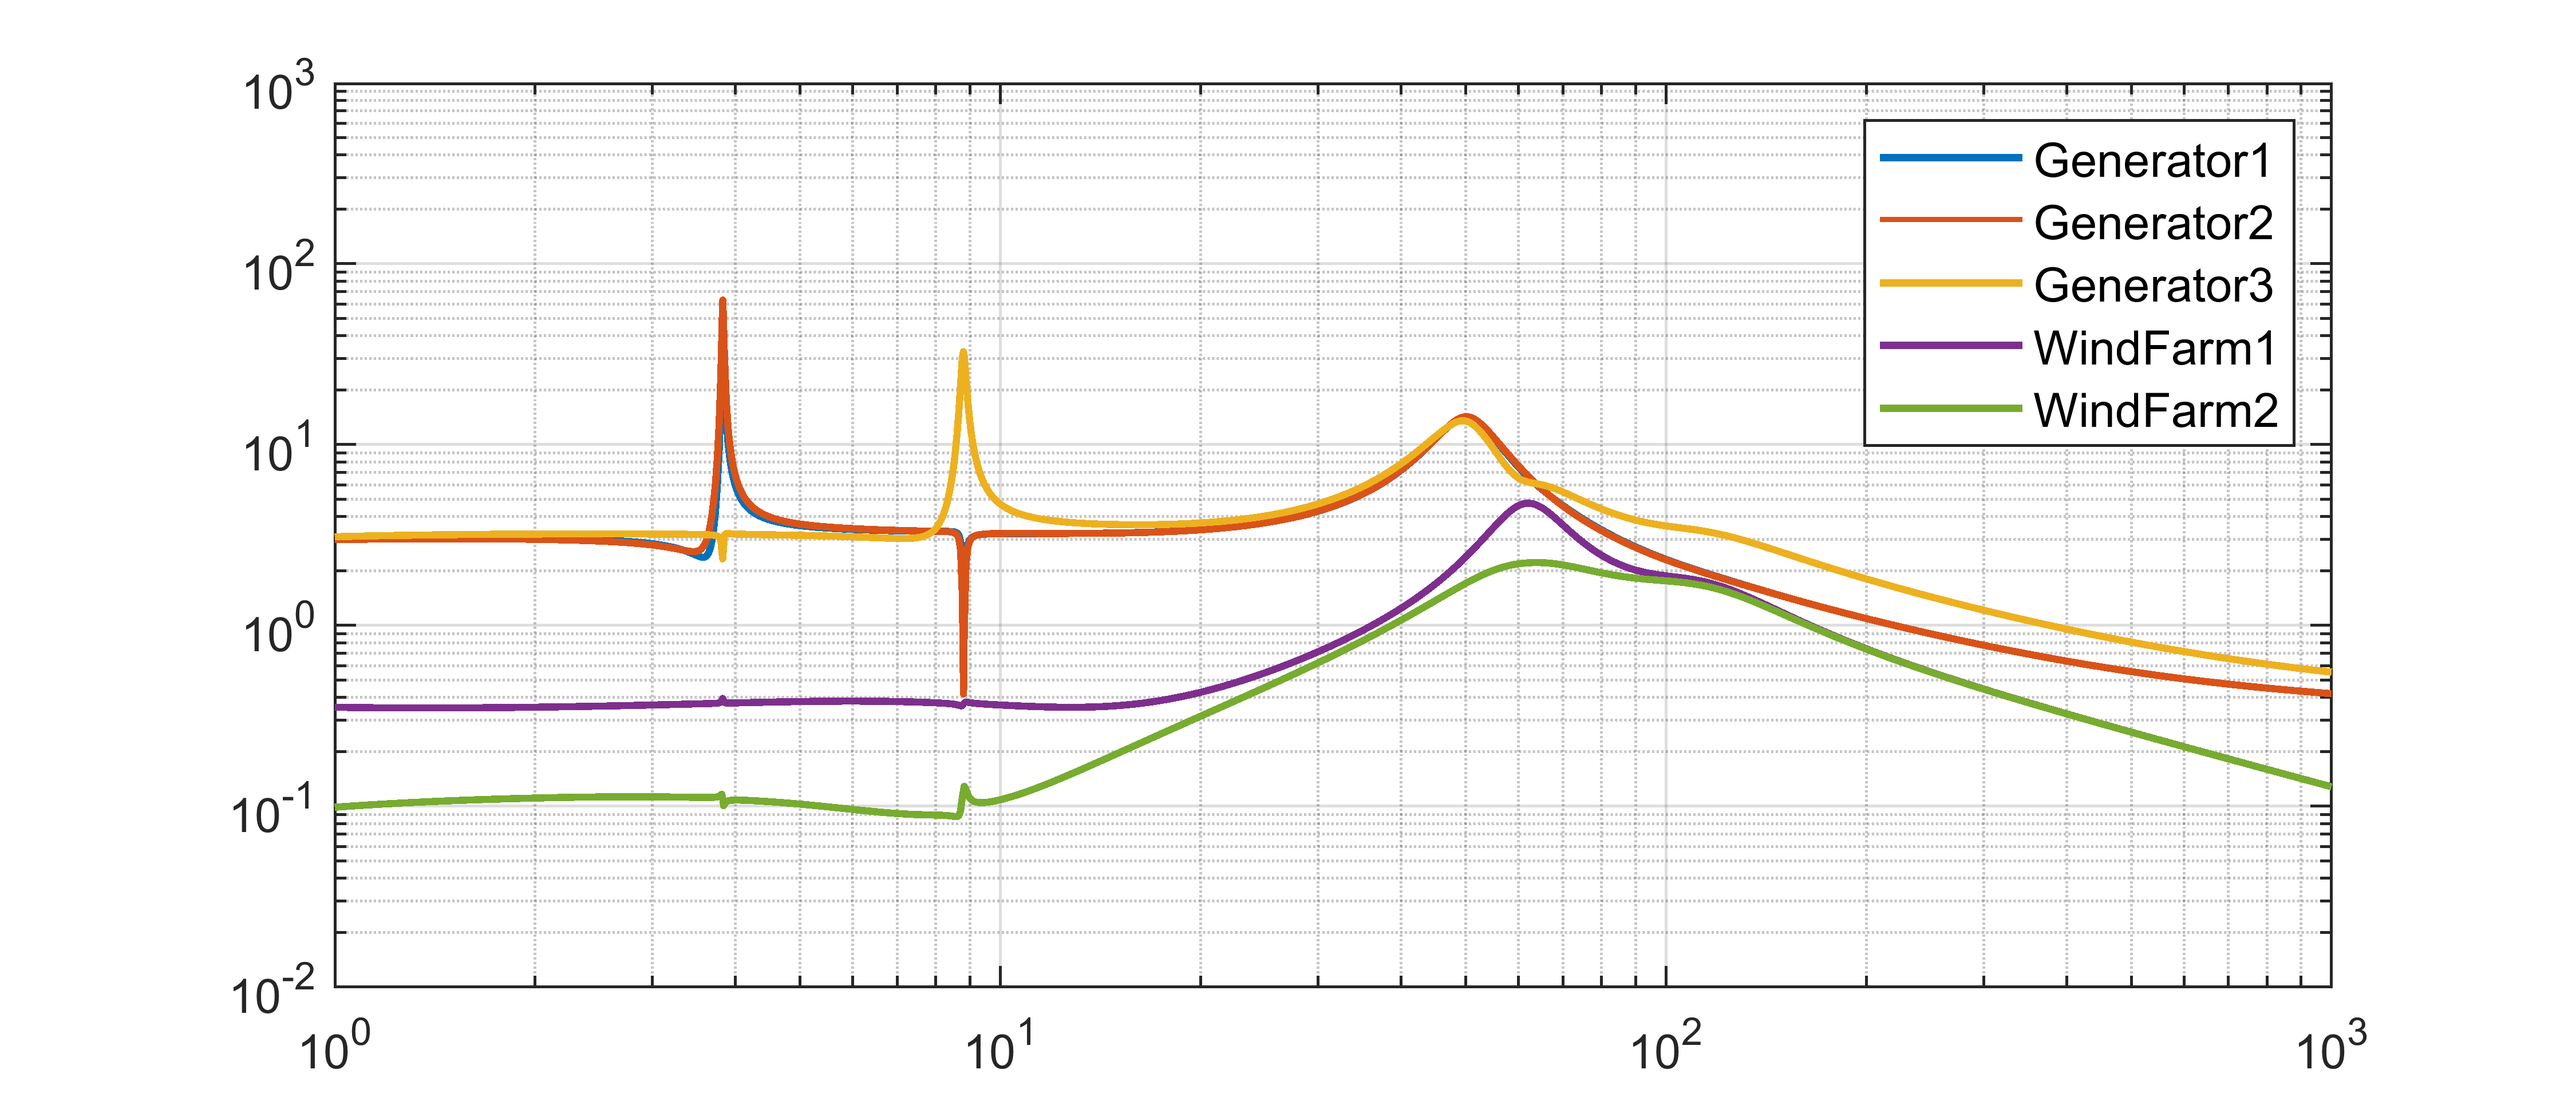
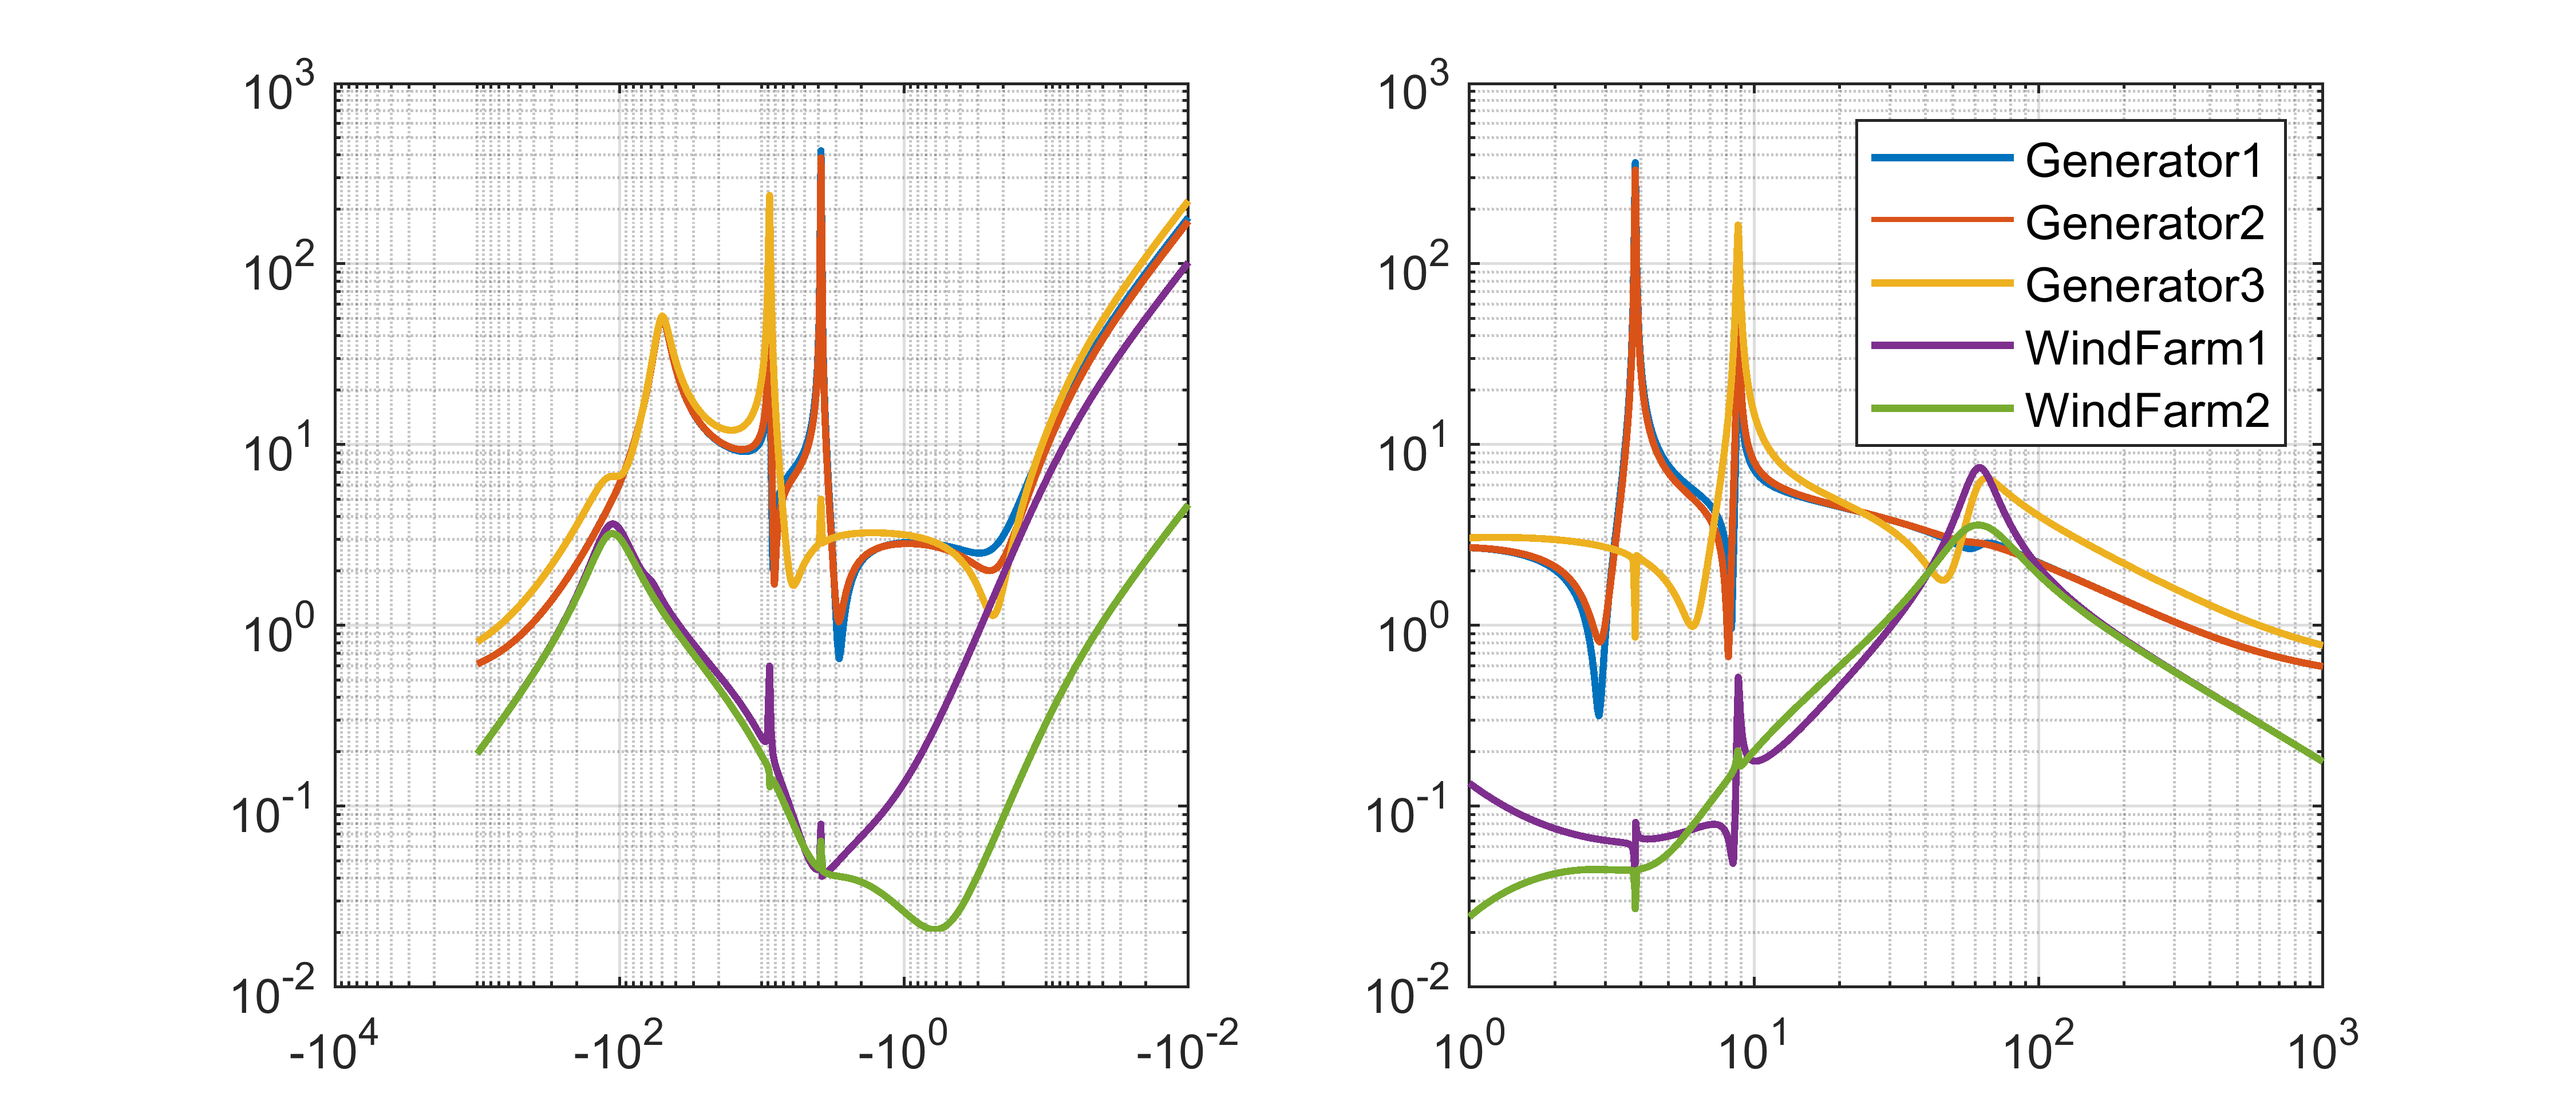
Correct another error in impedance plot
Ytr{n}(2,2) corrected

diff --git a/test.m b/test.m
@@ -247,12 +247,12 @@ for bandwidth = bandwidth_sweep
             Ytr{n}(1,1) = ss2sym(Gsys(length(type)*2 +2*n-1 ,length(type)*2 +2*n-1));  %#ok<SAGROW>
             Ytr{n}(1,2) = ss2sym(Gsys(length(type)*2 +2*n-1 ,length(type)*2 +2*n  ));  %#ok<SAGROW>
             Ytr{n}(2,1) = ss2sym(Gsys(length(type)*2 +2*n   ,length(type)*2 +2*n-1));  %#ok<SAGROW>
-            Ytr{n}(1,2) = ss2sym(Gsys(length(type)*2 +2*n   ,length(type)*2 +2*n  ));  %#ok<SAGROW>
+            Ytr{n}(2,2) = ss2sym(Gsys(length(type)*2 +2*n   ,length(type)*2 +2*n  ));  %#ok<SAGROW>
             Ytc{n} = Tj*Ytr{n}*Tj^(-1);  %#ok<SAGROW>
         end
    
         for nplot = 1:length(type)
-            figure(layout+200);
+            figure(layout+100);
             bodec(Ytc{nplot}(1,1),1j*wd,2*pi,'PhaseOn',0);                    
             hold on;
             grid on;                           
@@ -265,13 +265,13 @@ end
 if layout == 4
     fig = figure(layout+100);
     axis([1e0,1e3,1e-2,1e3]);
-    fig.Position = [1850 148 720 310];
+    fig.Position = [185 148 720 310];
     lgd = legend('Generator1','Generator2','Generator3','WindFarm1','WindFarm2');
     lgd.FontSize = 10;
     print(gcf,'Y.png','-dpng','-r600');
 elseif layout == 1
     fig = figure(layout+10);
-    fig.Position = [1985 -28 560 590];
+    fig.Position = [195 -28 560 590];
     fig.Children(1).FontSize = 8;
     fig.Children(2).FontSize = 8;
     print(gcf,'K.png','-dpng','-r600');
